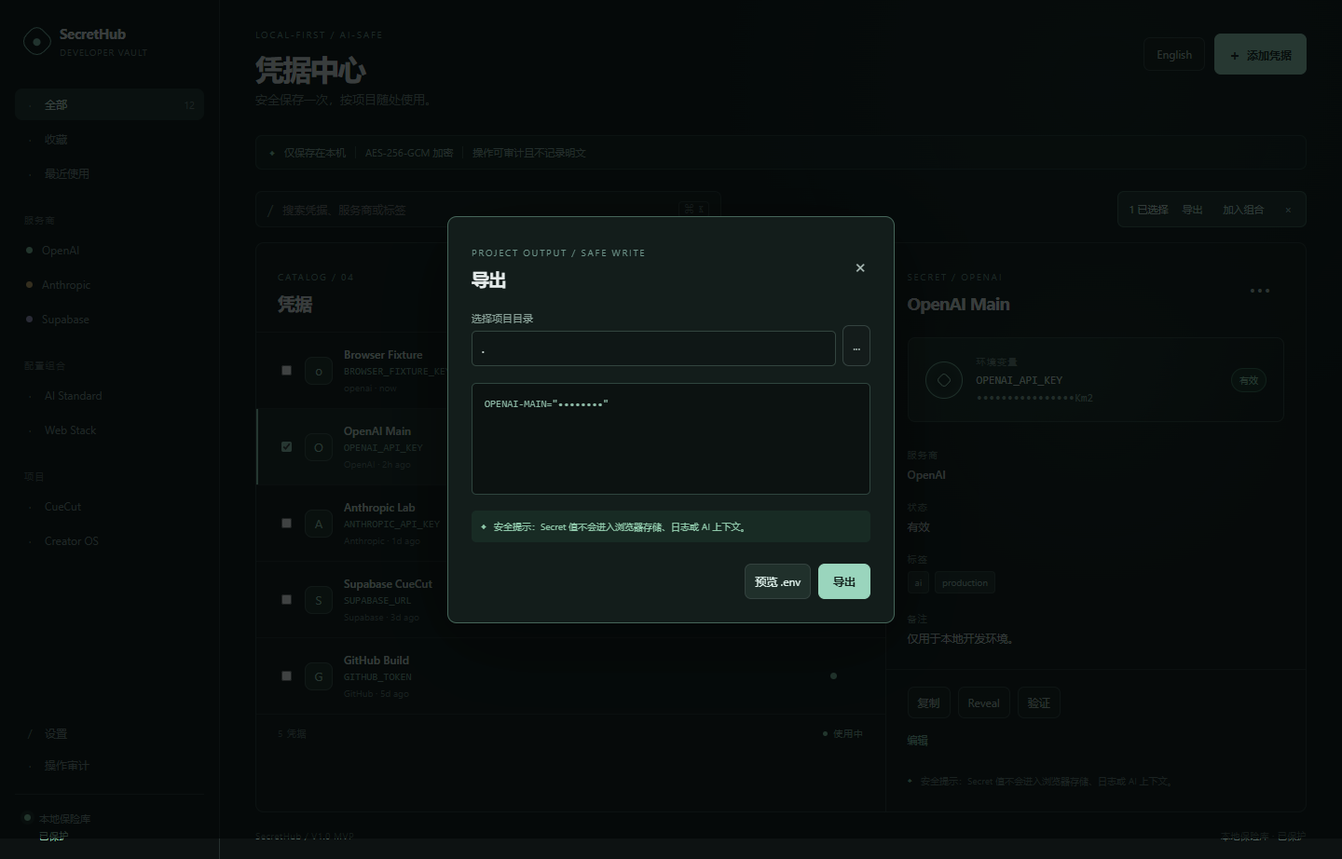
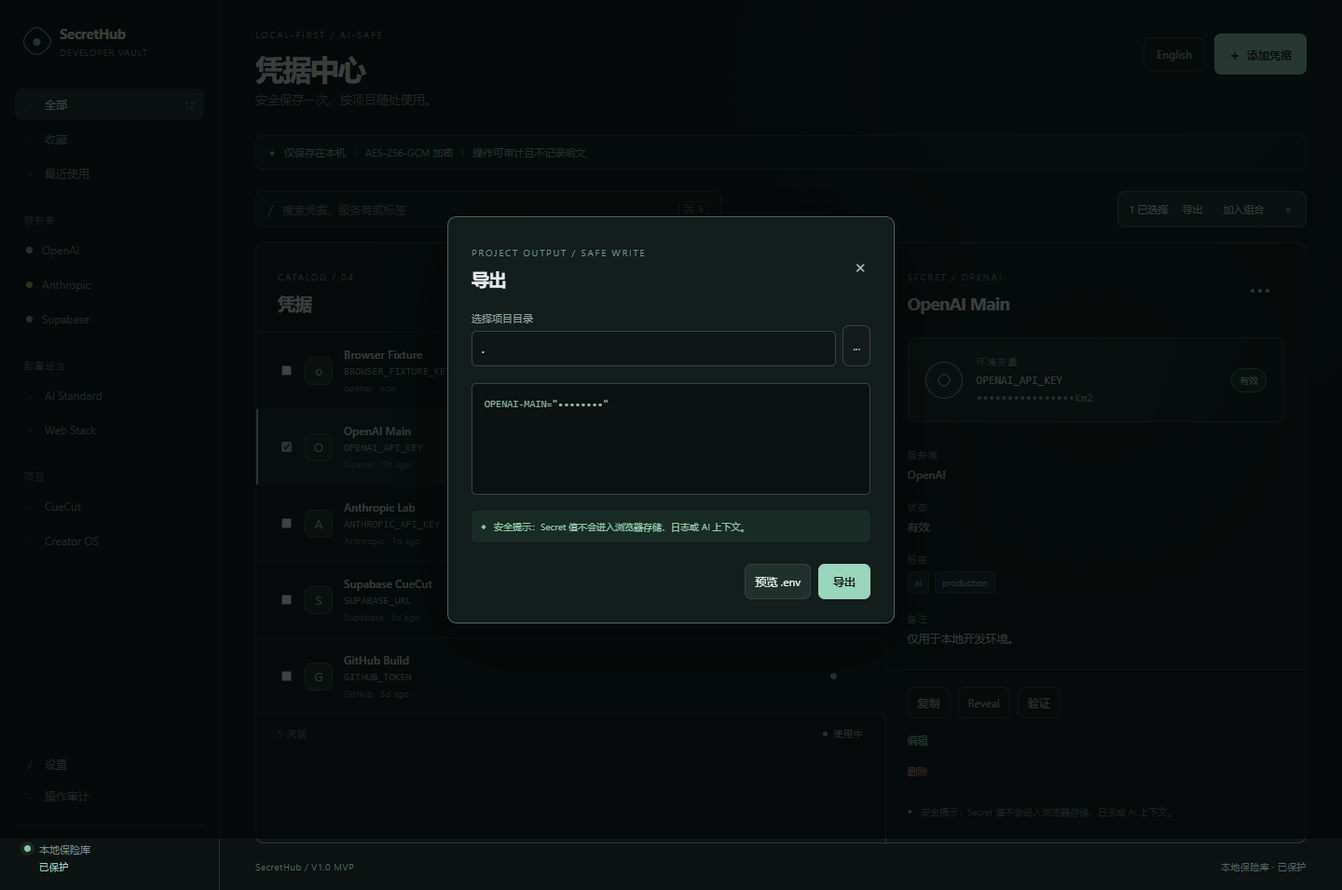
R08-R09: harden provider and lifecycle gates

diff --git a/apps/desktop/src/App.tsx b/apps/desktop/src/App.tsx
@@ -30,6 +30,7 @@ export function App() {
   const [selectedIds, setSelectedIds] = useState<string[]>([]);
   const [showForm, setShowForm] = useState(false);
   const [showExport, setShowExport] = useState(false);
+  const [editingSecret, setEditingSecret] = useState<SecretMetadata | null>(null);
   const [activeNav, setActiveNav] = useState<'all' | 'profiles' | 'projects' | 'settings' | 'audit'>('all');
   const t = getTranslation(locale);
   const selected = secrets.find((secret) => secret.id === selectedId) ?? null;
@@ -56,9 +57,23 @@ export function App() {
   }
 
   async function saveSecret(request: { name: string; provider_id: string; env_key: string; description: string; tags: string[]; value: string }) {
+    if (editingSecret) {
+      if (isTauriRuntime()) await backend.update(editingSecret.id, request);
+      setSecrets((current) => current.map((secret) => secret.id === editingSecret.id ? { ...secret, name: request.name, envKey: request.env_key, provider: request.provider_id, tags: request.tags, updated: 'now' } : secret));
+      setEditingSecret(null);
+      if (isTauriRuntime()) await refreshSecrets();
+      return;
+    }
     if (isTauriRuntime()) { await backend.create(request); await refreshSecrets(); return; }
     const localSecret: SecretMetadata = { id: `local-${Date.now()}`, name: request.name, envKey: request.env_key, provider: request.provider_id, tags: request.tags, status: 'unknown', updated: 'now' };
     setSecrets((current) => [localSecret, ...current]);
+  }
+
+  async function removeSelected() {
+    if (!selected || !window.confirm(t.detail.deleteConfirm)) return;
+    if (isTauriRuntime()) await backend.remove(selected.id);
+    setSecrets((current) => current.filter((secret) => secret.id !== selected.id));
+    setSelectedId('');
   }
 
   return (
@@ -121,7 +136,7 @@ export function App() {
                   <div className="detail-heading"><div><span className="section-kicker">SECRET / {selected.provider.toUpperCase()}</span><h2>{selected.name}</h2></div><button className="more-button" aria-label="More actions">•••</button></div>
                   <div className="secret-visual"><div className="secret-orb"><span /></div><div><span className="field-label">{t.detail.envKey}</span><strong>{selected.envKey}</strong><span className="masked-value">••••••••••••••••Km2</span></div><span className="valid-badge">{selected.status === 'valid' ? t.list.valid : t.list.unknown}</span></div>
                   <div className="detail-fields"><Field label={t.detail.provider} value={selected.provider} /><Field label={t.detail.status} value={selected.status === 'valid' ? t.list.valid : t.list.unknown} /><div><span className="field-label">{t.detail.tags}</span><div className="tag-row">{selected.tags.map((tag) => <span className="tag" key={tag}>{tag}</span>)}</div></div><Field label={t.detail.notes} value={locale === 'zh-CN' ? '仅用于本地开发环境。' : 'For local development only.'} /></div>
-                  <div className="detail-actions"><button className="secondary-button" onClick={() => { if (isTauriRuntime()) void backend.copy(selected.id); }}>{t.detail.copy}</button><button className="secondary-button" onClick={() => { if (isTauriRuntime()) void backend.reveal(selected.id); }}>{t.detail.reveal}</button><button className="secondary-button" onClick={() => undefined}>{t.detail.validate}</button></div><button className="edit-button" onClick={() => setShowForm(true)}>{t.detail.edit}</button>
+                  <div className="detail-actions"><button className="secondary-button" onClick={() => { if (isTauriRuntime()) void backend.copy(selected.id); }}>{t.detail.copy}</button><button className="secondary-button" onClick={() => { if (isTauriRuntime()) void backend.reveal(selected.id); }}>{t.detail.reveal}</button><button className="secondary-button" onClick={() => undefined}>{t.detail.validate}</button></div><button className="edit-button" onClick={() => { setEditingSecret(selected); setShowForm(true); }}>{t.detail.edit}</button><button className="delete-button" onClick={() => void removeSelected()}>{t.detail.delete}</button>
                   <div className="detail-note"><span className="lock-small">◆</span><span>{t.security.warning}</span></div>
                 </> : <div className="empty-detail">{t.detail.noSelection}</div>}
               </section>
@@ -130,7 +145,7 @@ export function App() {
         )}
         <footer className="app-footer"><span>SecretHub / {t.footer.version}</span><span>{t.footer.vault} · {t.footer.synced}</span></footer>
       </main>
-      {showForm && <SecretForm t={t} onClose={() => setShowForm(false)} onSave={saveSecret} />}
+      {showForm && <SecretForm t={t} initial={editingSecret} onClose={() => { setShowForm(false); setEditingSecret(null); }} onSave={saveSecret} />}
       {showExport && <ExportPanel t={t} selectedIds={selectedIds} onClose={() => setShowExport(false)} />}
     </div>
   );
@@ -186,17 +201,17 @@ function AuditPanel({ t }: { t: ReturnType<typeof getTranslation> }) {
 
 function SettingGroup({ title, items }: { title: string; items: string[][] }) { return <div className="setting-group"><h3>{title}</h3>{items.map(([label, value]) => <div className="setting-row" key={label}><span>{label}</span><strong>{value}</strong></div>)}</div>; }
 
-function SecretForm({ t, onClose, onSave }: { t: ReturnType<typeof getTranslation>; onClose: () => void; onSave: (request: { name: string; provider_id: string; env_key: string; description: string; tags: string[]; value: string }) => Promise<void> }) {
-  const [name, setName] = useState(''); const [envKey, setEnvKey] = useState(''); const [provider, setProvider] = useState('OpenAI'); const [value, setValue] = useState(''); const [tags, setTags] = useState(''); const [notes, setNotes] = useState(''); const [error, setError] = useState('');
+function SecretForm({ t, initial, onClose, onSave }: { t: ReturnType<typeof getTranslation>; initial: SecretMetadata | null; onClose: () => void; onSave: (request: { name: string; provider_id: string; env_key: string; description: string; tags: string[]; value: string }) => Promise<void> }) {
+  const [name, setName] = useState(initial?.name ?? ''); const [envKey, setEnvKey] = useState(initial?.envKey ?? ''); const [provider, setProvider] = useState(initial?.provider ?? 'OpenAI'); const [value, setValue] = useState(''); const [tags, setTags] = useState(initial?.tags.join(', ') ?? ''); const [notes, setNotes] = useState(''); const [error, setError] = useState('');
   async function submit(event: FormEvent) { event.preventDefault(); try { await onSave({ name, provider_id: provider.toLowerCase(), env_key: envKey, description: notes, tags: tags.split(',').map((tag) => tag.trim()).filter(Boolean), value }); onClose(); } catch (reason) { setError(String(reason)); } }
-  return <div className="modal-backdrop" role="dialog" aria-modal="true" aria-label={t.form.addTitle}><form className="secret-form" onSubmit={submit}><div className="form-heading"><div><span className="section-kicker">NEW ENTRY / ENCRYPTED</span><h2>{t.form.addTitle}</h2></div><button type="button" className="close-button" onClick={onClose}>×</button></div><label>{t.form.name}<input required value={name} onChange={(event) => setName(event.target.value)} placeholder={t.form.required} /></label><label>{t.form.envKey}<input required value={envKey} onChange={(event) => setEnvKey(event.target.value)} placeholder="OPENAI_API_KEY" /></label><label>{t.form.provider}<select value={provider} onChange={(event) => setProvider(event.target.value)}><option>OpenAI</option><option>Anthropic</option><option>Generic</option></select></label><label>{t.form.value}<input required value={value} onChange={(event) => setValue(event.target.value)} type="password" autoComplete="new-password" /></label><label>{t.form.tags}<input value={tags} onChange={(event) => setTags(event.target.value)} placeholder="ai, production" /></label><label>{t.form.notes}<textarea value={notes} onChange={(event) => setNotes(event.target.value)} rows={3} /></label>{error && <div className="form-error" role="alert">{error}</div>}<div className="form-security"><span>◆</span>{t.security.encrypted}</div><div className="form-actions"><button type="button" className="secondary-button" onClick={onClose}>{t.form.cancel}</button><button className="primary-button" type="submit">{t.form.save}</button></div></form></div>;
+  return <div className="modal-backdrop" role="dialog" aria-modal="true" aria-label={initial ? t.form.editTitle : t.form.addTitle}><form className="secret-form" onSubmit={submit}><div className="form-heading"><div><span className="section-kicker">NEW ENTRY / ENCRYPTED</span><h2>{initial ? t.form.editTitle : t.form.addTitle}</h2></div><button type="button" className="close-button" onClick={onClose}>×</button></div><label>{t.form.name}<input required value={name} onChange={(event) => setName(event.target.value)} placeholder={t.form.required} /></label><label>{t.form.envKey}<input required value={envKey} onChange={(event) => setEnvKey(event.target.value)} placeholder="OPENAI_API_KEY" /></label><label>{t.form.provider}<select value={provider} onChange={(event) => setProvider(event.target.value)}><option>OpenAI</option><option>Anthropic</option><option>Generic</option></select></label><label>{t.form.value}<input required value={value} onChange={(event) => setValue(event.target.value)} type="password" autoComplete="new-password" placeholder={initial ? 'Enter replacement value' : undefined} /></label><label>{t.form.tags}<input value={tags} onChange={(event) => setTags(event.target.value)} placeholder="ai, production" /></label><label>{t.form.notes}<textarea value={notes} onChange={(event) => setNotes(event.target.value)} rows={3} /></label>{error && <div className="form-error" role="alert">{error}</div>}<div className="form-security"><span>◆</span>{t.security.encrypted}</div><div className="form-actions"><button type="button" className="secondary-button" onClick={onClose}>{t.form.cancel}</button><button className="primary-button" type="submit">{t.form.save}</button></div></form></div>;
 }
 
 function ExportPanel({ t, selectedIds, onClose }: { t: ReturnType<typeof getTranslation>; selectedIds: string[]; onClose: () => void }) {
-  const [directory, setDirectory] = useState('.'); const [preview, setPreview] = useState(''); const [message, setMessage] = useState('');
+  const [directory, setDirectory] = useState('.'); const [preview, setPreview] = useState(''); const [message, setMessage] = useState(''); const [conflicts, setConflicts] = useState<string[]>([]);
   const request = { directory, secret_ids: selectedIds, write_example: true, replace_existing: false, ensure_gitignore: true };
   async function chooseFolder() { if (isTauriRuntime()) { const folder = await backend.chooseFolder(); if (folder) setDirectory(folder); } }
-  async function showPreview() { if (isTauriRuntime()) setPreview(await backend.preview(request)); else setPreview(selectedIds.map((id) => `${id.toUpperCase()}="••••••••"`).join('\n')); }
+  async function showPreview() { if (isTauriRuntime()) { setPreview(await backend.preview(request)); setConflicts(await backend.conflicts(request)); } else { setPreview(selectedIds.map((id) => `${id.toUpperCase()}="••••••••"`).join('\n')); setConflicts([]); } }
   async function exportFiles() { if (isTauriRuntime()) await backend.export(request); setMessage('Export complete'); }
-  return <div className="modal-backdrop" role="dialog" aria-modal="true" aria-label={t.actions.export}><div className="secret-form export-form"><div className="form-heading"><div><span className="section-kicker">PROJECT OUTPUT / SAFE WRITE</span><h2>{t.actions.export}</h2></div><button type="button" className="close-button" onClick={onClose}>×</button></div><label>{t.actions.chooseFolder}<div className="folder-row"><input value={directory} onChange={(event) => setDirectory(event.target.value)} /><button type="button" className="secondary-button" onClick={chooseFolder}>...</button></div></label><div className="preview-box">{preview || 'Select Preview to inspect masked output.'}</div><div className="form-security"><span>◆</span>{t.security.warning}</div>{message && <div className="form-success">{message}</div>}<div className="form-actions"><button type="button" className="secondary-button" onClick={showPreview}>{t.actions.preview}</button><button className="primary-button" type="button" onClick={exportFiles}>{t.actions.export}</button></div></div></div>;
+  return <div className="modal-backdrop" role="dialog" aria-modal="true" aria-label={t.actions.export}><div className="secret-form export-form"><div className="form-heading"><div><span className="section-kicker">PROJECT OUTPUT / SAFE WRITE</span><h2>{t.actions.export}</h2></div><button type="button" className="close-button" onClick={onClose}>×</button></div><label>{t.actions.chooseFolder}<div className="folder-row"><input value={directory} onChange={(event) => setDirectory(event.target.value)} /><button type="button" className="secondary-button" onClick={chooseFolder}>...</button></div></label><div className="preview-box">{preview || 'Select Preview to inspect masked output.'}</div>{conflicts.length > 0 && <div className="conflict-box">Conflict keys: {conflicts.join(', ')}</div>}<div className="form-security"><span>◆</span>{t.security.warning}</div>{message && <div className="form-success">{message}</div>}<div className="form-actions"><button type="button" className="secondary-button" onClick={showPreview}>{t.actions.preview}</button><button className="primary-button" type="button" onClick={exportFiles}>{t.actions.export}</button></div></div></div>;
 }

diff --git a/apps/desktop/src/i18n/translations.ts b/apps/desktop/src/i18n/translations.ts
@@ -4,7 +4,7 @@ export type Translation = {
   nav: { all: string; favorites: string; recent: string; providers: string; profiles: string; projects: string; tags: string; settings: string; secrets: string };
   header: { eyebrow: string; title: string; subtitle: string; search: string; add: string; language: string };
   list: { title: string; selected: string; empty: string; searchEmpty: string; provider: string; updated: string; valid: string; unknown: string; active: string };
-  detail: { title: string; masked: string; provider: string; envKey: string; status: string; tags: string; notes: string; copy: string; reveal: string; validate: string; edit: string; delete: string; noSelection: string };
+  detail: { title: string; masked: string; provider: string; envKey: string; status: string; tags: string; notes: string; copy: string; reveal: string; validate: string; edit: string; delete: string; deleteConfirm: string; noSelection: string };
   actions: { export: string; profile: string; validate: string; archive: string; chooseFolder: string; preview: string };
   form: { addTitle: string; editTitle: string; name: string; envKey: string; provider: string; value: string; notes: string; tags: string; cancel: string; save: string; required: string };
   security: { localOnly: string; encrypted: string; audit: string; locked: string; unlock: string; warning: string };
@@ -21,7 +21,7 @@ export const translations: Record<Locale, Translation> = {
     nav: { all: '全部', favorites: '收藏', recent: '最近使用', providers: '服务商', profiles: '配置组合', projects: '项目', tags: '标签', settings: '设置', secrets: '凭据' },
     header: { eyebrow: 'LOCAL-FIRST / AI-SAFE', title: '凭据中心', subtitle: '安全保存一次，按项目随处使用。', search: '搜索凭据、服务商或标签', add: '添加凭据', language: 'English' },
     list: { title: '凭据', selected: '已选择', empty: '还没有凭据', searchEmpty: '没有匹配的凭据', provider: '服务商', updated: '更新于', valid: '有效', unknown: '待验证', active: '使用中' },
-    detail: { title: '凭据详情', masked: '已安全遮罩', provider: '服务商', envKey: '环境变量', status: '状态', tags: '标签', notes: '备注', copy: '复制', reveal: 'Reveal', validate: '验证', edit: '编辑', delete: '删除', noSelection: '选择一条凭据查看详情' },
+    detail: { title: '凭据详情', masked: '已安全遮罩', provider: '服务商', envKey: '环境变量', status: '状态', tags: '标签', notes: '备注', copy: '复制', reveal: 'Reveal', validate: '验证', edit: '编辑', delete: '删除', deleteConfirm: '确定删除这条凭据？', noSelection: '选择一条凭据查看详情' },
     actions: { export: '导出', profile: '加入组合', validate: '批量验证', archive: '归档', chooseFolder: '选择项目目录', preview: '预览 .env' },
     form: { addTitle: '添加凭据', editTitle: '编辑凭据', name: '名称', envKey: '环境变量名', provider: '服务商', value: 'Secret 值', notes: '备注', tags: '标签（逗号分隔）', cancel: '取消', save: '保存凭据', required: '必填' },
     security: { localOnly: '仅保存在本机', encrypted: 'AES-256-GCM 加密', audit: '操作可审计且不记录明文', locked: '保险库已锁定', unlock: '解锁保险库', warning: '安全提示：Secret 值不会进入浏览器存储、日志或 AI 上下文。' },
@@ -36,7 +36,7 @@ export const translations: Record<Locale, Translation> = {
     nav: { all: 'All', favorites: 'Favorites', recent: 'Recent', providers: 'Providers', profiles: 'Profiles', projects: 'Projects', tags: 'Tags', settings: 'Settings', secrets: 'Secrets' },
     header: { eyebrow: 'LOCAL-FIRST / AI-SAFE', title: 'Secret catalog', subtitle: 'Store once. Use everywhere, project by project.', search: 'Search secrets, providers or tags', add: 'Add secret', language: '中文' },
     list: { title: 'Secrets', selected: 'selected', empty: 'No secrets yet', searchEmpty: 'No matching secrets', provider: 'Provider', updated: 'Updated', valid: 'Valid', unknown: 'Not validated', active: 'Active' },
-    detail: { title: 'Secret details', masked: 'Safely masked', provider: 'Provider', envKey: 'Environment key', status: 'Status', tags: 'Tags', notes: 'Notes', copy: 'Copy', reveal: 'Reveal', validate: 'Validate', edit: 'Edit', delete: 'Delete', noSelection: 'Select a secret to view details' },
+    detail: { title: 'Secret details', masked: 'Safely masked', provider: 'Provider', envKey: 'Environment key', status: 'Status', tags: 'Tags', notes: 'Notes', copy: 'Copy', reveal: 'Reveal', validate: 'Validate', edit: 'Edit', delete: 'Delete', deleteConfirm: 'Delete this secret?', noSelection: 'Select a secret to view details' },
     actions: { export: 'Export', profile: 'Add to profile', validate: 'Validate selected', archive: 'Archive', chooseFolder: 'Choose project folder', preview: 'Preview .env' },
     form: { addTitle: 'Add secret', editTitle: 'Edit secret', name: 'Name', envKey: 'Environment key', provider: 'Provider', value: 'Secret value', notes: 'Notes', tags: 'Tags (comma separated)', cancel: 'Cancel', save: 'Save secret', required: 'Required' },
     security: { localOnly: 'Stored on this device', encrypted: 'AES-256-GCM encrypted', audit: 'Audited without plaintext', locked: 'Vault is locked', unlock: 'Unlock vault', warning: 'Security note: secret values never enter browser storage, logs or AI context.' },

diff --git a/apps/desktop/src/styles.css b/apps/desktop/src/styles.css
@@ -19,5 +19,7 @@ button { cursor: pointer; }
 .runtime-error { max-width: 1250px; margin: 0 auto 16px; padding: 10px 13px; border: 1px solid #77494a; border-radius: 7px; background: #351f22; color: #e3a8a6; font-size: 11px; }.vault-gate { max-width: 520px; min-height: 490px; margin: 40px auto 0; border: 1px solid #36574b; border-radius: 10px; background: radial-gradient(circle at 50% 20%, rgba(67, 132, 105, .17), transparent 42%), #121c1a; padding: 46px 58px; text-align: center; }.vault-gate h2 { font-size: 24px; letter-spacing: -.04em; margin: 14px 0 7px; }.vault-gate p { color: #788d85; font-size: 12px; line-height: 1.65; margin: 0 auto 26px; max-width: 330px; }.gate-orb { width: 58px; height: 58px; border-radius: 50%; border: 1px solid #8ecbb0; display: grid; place-items: center; margin: 0 auto 23px; box-shadow: 0 0 0 9px rgba(142, 203, 176, .06); }.gate-orb span { width: 17px; height: 17px; border: 1px solid #a6dfc3; border-radius: 5px; transform: rotate(45deg); }.vault-gate form { text-align: left; margin-top: 18px; }.vault-gate label { display: block; color: #89a198; font-size: 11px; margin-top: 14px; }.vault-gate input { display: block; width: 100%; border: 1px solid #33453f; background: #0f1716; color: #d9e7e1; padding: 12px; border-radius: 5px; outline: none; margin-top: 6px; font-size: 13px; }.vault-gate input:focus { border-color: #84bfa7; outline: 2px solid rgba(132, 191, 167, .18); }.vault-gate .primary-button { width: 100%; margin-top: 21px; }.form-error { margin-top: 12px; color: #e3a8a6; font-size: 11px; }
 .folder-row { display: flex; gap: 7px; }.folder-row input { flex: 1 !important; }.preview-box { margin-top: 18px; min-height: 120px; padding: 13px; border: 1px solid #2f453e; border-radius: 5px; background: #0c1211; color: #8cb8a5; white-space: pre-wrap; font: 11px/1.7 ui-monospace, SFMono-Regular, Consolas, monospace; }.form-success { margin-top: 12px; color: #9bd4b4; font-size: 11px; }
 .profile-editor { display: flex; align-items: end; gap: 10px; margin-top: 28px; }.profile-editor label { flex: 1; color: #89a198; font-size: 11px; }.profile-editor input { display: block; width: 100%; border: 1px solid #33453f; background: #0f1716; color: #d9e7e1; padding: 10px; border-radius: 5px; margin-top: 6px; font-size: 12px; }.profile-list, .project-list, .audit-list { margin-top: 25px; border-top: 1px solid #2a3834; }.profile-row, .project-row, .audit-row { display: flex; justify-content: space-between; gap: 20px; align-items: center; padding: 15px 0; border-bottom: 1px solid #26332f; }.profile-row strong, .project-row strong, .audit-row strong { display: block; color: #cce0d9; font-size: 12px; }.profile-row span, .project-row span, .audit-row span { display: block; color: #71847d; font-size: 10px; margin-top: 5px; }.project-message { margin-bottom: 15px; }
+.delete-button { display: block; margin: 12px 23px 0; border: 0; background: transparent; color: #ca8f8f; font-size: 11px; padding: 3px 0; }.delete-button:hover { color: #e2aaaa; }
+.conflict-box { margin-top: 12px; padding: 10px; border: 1px solid #775c45; background: #33291d; color: #d8b27c; font-size: 10px; line-height: 1.5; }
 @media (max-width: 1100px) { .app-shell { grid-template-columns: 205px minmax(0, 1fr); }.main-panel { padding-left: 24px; padding-right: 24px; }.workspace-grid { grid-template-columns: minmax(400px, 1.1fr) minmax(320px, .9fr); } }
 @media (prefers-reduced-motion: reduce) { *, *:before, *:after { transition-duration: .01ms !important; animation-duration: .01ms !important; } }

diff --git a/apps/desktop/src/lib/backend.ts b/apps/desktop/src/lib/backend.ts
@@ -12,10 +12,13 @@ export const backend = {
   lock: () => invoke<void>('lock'),
   list: (query?: string) => invoke<BackendSecret[]>('secret_list', { query }),
   create: (request: { name: string; provider_id: string; env_key: string; description: string; tags: string[]; value: string }) => invoke<string>('secret_create', { request }),
+  update: (id: string, request: { name: string; provider_id: string; env_key: string; description: string; tags: string[]; value: string }) => invoke<void>('secret_update', { id, request }),
+  remove: (id: string) => invoke<boolean>('secret_delete', { id }),
   copy: (id: string) => invoke<void>('secret_copy', { id }),
   reveal: (id: string) => invoke<void>('secret_reveal', { id }),
   preview: (request: { directory: string; secret_ids: string[]; write_example: boolean; replace_existing: boolean; ensure_gitignore: boolean }) => invoke<string>('export_preview', { request }),
   export: (request: { directory: string; secret_ids: string[]; write_example: boolean; replace_existing: boolean; ensure_gitignore: boolean }) => invoke<void>('export_env', { request }),
+  conflicts: (request: { directory: string; secret_ids: string[]; write_example: boolean; replace_existing: boolean; ensure_gitignore: boolean }) => invoke<string[]>('export_conflicts', { request }),
   chooseFolder: () => invoke<string | null>('choose_project_directory'),
   profiles: () => invoke<Array<{ id: string; name: string; description: string; secret_ids: string[] }>>('profile_list'),
   saveProfile: (profile: { id: string; name: string; description: string; secret_ids: string[] }) => invoke<void>('profile_save', { request: profile }),

diff --git a/apps/desktop/src-tauri/src/commands.rs b/apps/desktop/src-tauri/src/commands.rs
@@ -1,7 +1,7 @@
 use super::AppState;
 use arboard::Clipboard;
 use secrethub_core::{NewSecretInput, VaultService};
-use secrethub_exporter::{ensure_gitignore_env, env_is_tracked, gitignore_has_env, render_env, render_example, validate_export_directory, write_atomic, EnvEntry};
+use secrethub_exporter::{detect_conflicts, ensure_gitignore_env, env_is_tracked, gitignore_has_env, render_env, render_example, validate_export_directory, write_atomic, EnvEntry};
 use serde::{Deserialize, Serialize};
 use std::{path::Path, sync::MutexGuard};
 use tauri::State;
@@ -20,47 +20,59 @@ pub struct ProfileRequest { pub id: String, pub name: String, pub description: S
 
 fn vault_from_state<'a>(state: &'a State<'_, AppState>) -> Result<MutexGuard<'a, Option<VaultService>>, String> { state.vault.lock().map_err(|_| "vault state is unavailable".to_owned()) }
 
+fn touch_activity(state: &State<'_, AppState>) -> Result<(), String> {
+    let now = super::now_seconds();
+    let expired = state.policy.lock().map_err(|_| "vault policy is unavailable".to_owned())?.is_expired(now);
+    if expired { if let Some(vault) = vault_from_state(state)?.as_mut() { vault.lock(); } return Err("vault auto-locked after inactivity".to_owned()); }
+    state.policy.lock().map_err(|_| "vault policy is unavailable".to_owned())?.record_activity(now);
+    Ok(())
+}
+
 #[tauri::command]
 pub fn vault_status(state: State<'_, AppState>) -> Result<VaultStatus, String> {
+    let _ = touch_activity(&state);
     let vault = vault_from_state(&state)?;
     let Some(vault) = vault.as_ref() else { return Ok(VaultStatus { initialized: false, unlocked: false }); };
     Ok(VaultStatus { initialized: vault.is_initialized().map_err(|error| error.to_string())?, unlocked: vault.is_unlocked() })
 }
 
 #[tauri::command]
-pub fn setup_master(password: String, state: State<'_, AppState>) -> Result<(), String> { vault_from_state(&state)?.as_mut().ok_or_else(|| "vault unavailable".to_owned())?.setup_master(&password).map_err(|error| error.to_string()) }
+pub fn setup_master(password: String, state: State<'_, AppState>) -> Result<(), String> { vault_from_state(&state)?.as_mut().ok_or_else(|| "vault unavailable".to_owned())?.setup_master(&password).map_err(|error| error.to_string())?; state.policy.lock().map_err(|_| "vault policy is unavailable".to_owned())?.record_activity(super::now_seconds()); Ok(()) }
 
 #[tauri::command]
-pub fn unlock(password: String, state: State<'_, AppState>) -> Result<(), String> { vault_from_state(&state)?.as_mut().ok_or_else(|| "vault unavailable".to_owned())?.unlock(&password).map_err(|error| error.to_string()) }
+pub fn unlock(password: String, state: State<'_, AppState>) -> Result<(), String> { vault_from_state(&state)?.as_mut().ok_or_else(|| "vault unavailable".to_owned())?.unlock(&password).map_err(|error| error.to_string())?; state.policy.lock().map_err(|_| "vault policy is unavailable".to_owned())?.record_activity(super::now_seconds()); Ok(()) }
 
 #[tauri::command]
 pub fn lock(state: State<'_, AppState>) -> Result<(), String> { if let Some(vault) = vault_from_state(&state)?.as_mut() { vault.lock(); } Ok(()) }
 
 #[tauri::command]
-pub fn secret_list(query: Option<String>, state: State<'_, AppState>) -> Result<Vec<secrethub_storage::SecretMetadata>, String> { let vault = vault_from_state(&state)?; let vault = vault.as_ref().ok_or_else(|| "vault unavailable".to_owned())?; query.filter(|value| !value.is_empty()).map_or_else(|| vault.list_metadata(), |value| vault.search_metadata(&value)).map_err(|error| error.to_string()) }
+pub fn secret_list(query: Option<String>, state: State<'_, AppState>) -> Result<Vec<secrethub_storage::SecretMetadata>, String> { touch_activity(&state)?; let vault = vault_from_state(&state)?; let vault = vault.as_ref().ok_or_else(|| "vault unavailable".to_owned())?; query.filter(|value| !value.is_empty()).map_or_else(|| vault.list_metadata(), |value| vault.search_metadata(&value)).map_err(|error| error.to_string()) }
 
 #[tauri::command]
-pub fn secret_create(request: SecretCreateRequest, state: State<'_, AppState>) -> Result<String, String> { vault_from_state(&state)?.as_ref().ok_or_else(|| "vault unavailable".to_owned())?.create_secret(NewSecretInput { name: request.name, provider_id: request.provider_id, env_key: request.env_key, description: request.description, tags: request.tags, value: request.value }).map_err(|error| error.to_string()) }
+pub fn secret_create(request: SecretCreateRequest, state: State<'_, AppState>) -> Result<String, String> { touch_activity(&state)?; vault_from_state(&state)?.as_ref().ok_or_else(|| "vault unavailable".to_owned())?.create_secret(NewSecretInput { name: request.name, provider_id: request.provider_id, env_key: request.env_key, description: request.description, tags: request.tags, value: request.value }).map_err(|error| error.to_string()) }
 
 #[tauri::command]
-pub fn secret_update(id: String, request: SecretCreateRequest, state: State<'_, AppState>) -> Result<(), String> { vault_from_state(&state)?.as_ref().ok_or_else(|| "vault unavailable".to_owned())?.update_secret(&id, NewSecretInput { name: request.name, provider_id: request.provider_id, env_key: request.env_key, description: request.description, tags: request.tags, value: request.value }).map_err(|error| error.to_string()) }
+pub fn secret_update(id: String, request: SecretCreateRequest, state: State<'_, AppState>) -> Result<(), String> { touch_activity(&state)?; vault_from_state(&state)?.as_ref().ok_or_else(|| "vault unavailable".to_owned())?.update_secret(&id, NewSecretInput { name: request.name, provider_id: request.provider_id, env_key: request.env_key, description: request.description, tags: request.tags, value: request.value }).map_err(|error| error.to_string()) }
 
 #[tauri::command]
-pub fn secret_delete(id: String, state: State<'_, AppState>) -> Result<bool, String> { vault_from_state(&state)?.as_ref().ok_or_else(|| "vault unavailable".to_owned())?.delete_secret(&id).map_err(|error| error.to_string()) }
+pub fn secret_delete(id: String, state: State<'_, AppState>) -> Result<bool, String> { touch_activity(&state)?; vault_from_state(&state)?.as_ref().ok_or_else(|| "vault unavailable".to_owned())?.delete_secret(&id).map_err(|error| error.to_string()) }
 
 #[tauri::command]
-pub fn secret_copy(id: String, state: State<'_, AppState>) -> Result<(), String> { let value = vault_from_state(&state)?.as_ref().ok_or_else(|| "vault unavailable".to_owned())?.read_secret(&id).map_err(|error| error.to_string())?; let mut clipboard = Clipboard::new().map_err(|error| error.to_string())?; clipboard.set_text(value).map_err(|error| error.to_string()) }
+pub fn secret_copy(id: String, state: State<'_, AppState>) -> Result<(), String> { touch_activity(&state)?; let value = vault_from_state(&state)?.as_ref().ok_or_else(|| "vault unavailable".to_owned())?.read_secret(&id).map_err(|error| error.to_string())?; let mut clipboard = Clipboard::new().map_err(|error| error.to_string())?; clipboard.set_text(value).map_err(|error| error.to_string()) }
 
 #[tauri::command]
-pub fn secret_reveal(id: String, state: State<'_, AppState>) -> Result<(), String> { let value = vault_from_state(&state)?.as_ref().ok_or_else(|| "vault unavailable".to_owned())?.read_secret(&id).map_err(|error| error.to_string())?; rfd::MessageDialog::new().set_title("SecretHub").set_description(&value).set_buttons(rfd::MessageButtons::Ok).show(); Ok(()) }
+pub fn secret_reveal(id: String, state: State<'_, AppState>) -> Result<(), String> { touch_activity(&state)?; let value = vault_from_state(&state)?.as_ref().ok_or_else(|| "vault unavailable".to_owned())?.read_secret(&id).map_err(|error| error.to_string())?; rfd::MessageDialog::new().set_title("SecretHub").set_description(&value).set_buttons(rfd::MessageButtons::Ok).show(); Ok(()) }
 
 fn selected_entries(vault: &VaultService, ids: &[String]) -> Result<Vec<EnvEntry>, String> { let metadata = vault.list_metadata().map_err(|error| error.to_string())?; ids.iter().map(|id| { let item = metadata.iter().find(|item| item.id == *id).ok_or_else(|| "secret not found".to_owned())?; let value = vault.read_secret(id).map_err(|error| error.to_string())?; Ok(EnvEntry::new(&item.env_key, value)) }).collect() }
 
 #[tauri::command]
-pub fn export_preview(request: ExportRequest, state: State<'_, AppState>) -> Result<String, String> { let vault = vault_from_state(&state)?; let vault = vault.as_ref().ok_or_else(|| "vault unavailable".to_owned())?; let entries = selected_entries(vault, &request.secret_ids)?; let masked = entries.iter().map(|entry| EnvEntry::new(&entry.key, "••••••••")).collect::<Vec<_>>(); render_env(&masked).map_err(|error| error.to_string()) }
+pub fn export_preview(request: ExportRequest, state: State<'_, AppState>) -> Result<String, String> { touch_activity(&state)?; let vault = vault_from_state(&state)?; let vault = vault.as_ref().ok_or_else(|| "vault unavailable".to_owned())?; let entries = selected_entries(vault, &request.secret_ids)?; let masked = entries.iter().map(|entry| EnvEntry::new(&entry.key, "••••••••")).collect::<Vec<_>>(); render_env(&masked).map_err(|error| error.to_string()) }
 
 #[tauri::command]
-pub fn export_env(request: ExportRequest, state: State<'_, AppState>) -> Result<(), String> { let vault = vault_from_state(&state)?; let vault = vault.as_ref().ok_or_else(|| "vault unavailable".to_owned())?; let directory = validate_export_directory(Path::new(&request.directory)).map_err(|error| error.to_string())?; if env_is_tracked(&directory).map_err(|error| error.to_string())? { return Err(".env is already tracked by Git; remediation required before export".to_owned()); } let gitignore = directory.join(".gitignore"); if !gitignore_has_env(&gitignore).map_err(|error| error.to_string())? { if request.ensure_gitignore { ensure_gitignore_env(&gitignore).map_err(|error| error.to_string())?; } else { return Err(".env is not protected by .gitignore; explicit remediation required".to_owned()); } } let entries = selected_entries(vault, &request.secret_ids)?; let content = render_env(&entries).map_err(|error| error.to_string())?; write_atomic(&directory.join(".env"), &content, request.replace_existing).map_err(|error| error.to_string())?; if request.write_example { let example = render_example(&entries).map_err(|error| error.to_string())?; write_atomic(&directory.join(".env.example"), &example, request.replace_existing).map_err(|error| error.to_string())?; } Ok(()) }
+pub fn export_conflicts(request: ExportRequest, state: State<'_, AppState>) -> Result<Vec<String>, String> { touch_activity(&state)?; let vault = vault_from_state(&state)?; let vault = vault.as_ref().ok_or_else(|| "vault unavailable".to_owned())?; let directory = validate_export_directory(Path::new(&request.directory)).map_err(|error| error.to_string())?; let existing = std::fs::read_to_string(directory.join(".env")).unwrap_or_default(); let entries = selected_entries(vault, &request.secret_ids)?; detect_conflicts(&existing, &entries).map_err(|error| error.to_string()) }
+
+#[tauri::command]
+pub fn export_env(request: ExportRequest, state: State<'_, AppState>) -> Result<(), String> { touch_activity(&state)?; let vault = vault_from_state(&state)?; let vault = vault.as_ref().ok_or_else(|| "vault unavailable".to_owned())?; let directory = validate_export_directory(Path::new(&request.directory)).map_err(|error| error.to_string())?; if env_is_tracked(&directory).map_err(|error| error.to_string())? { return Err(".env is already tracked by Git; remediation required before export".to_owned()); } let gitignore = directory.join(".gitignore"); if !gitignore_has_env(&gitignore).map_err(|error| error.to_string())? { if request.ensure_gitignore { ensure_gitignore_env(&gitignore).map_err(|error| error.to_string())?; } else { return Err(".env is not protected by .gitignore; explicit remediation required".to_owned()); } } let entries = selected_entries(vault, &request.secret_ids)?; let content = render_env(&entries).map_err(|error| error.to_string())?; write_atomic(&directory.join(".env"), &content, request.replace_existing).map_err(|error| error.to_string())?; if request.write_example { let example = render_example(&entries).map_err(|error| error.to_string())?; write_atomic(&directory.join(".env.example"), &example, request.replace_existing).map_err(|error| error.to_string())?; } Ok(()) }
 
 #[tauri::command]
 pub fn choose_project_directory() -> Option<String> { rfd::FileDialog::new().pick_folder().map(|path| path.to_string_lossy().into_owned()) }
@@ -84,7 +96,7 @@ pub fn audit_list(state: State<'_, AppState>) -> Result<Vec<secrethub_storage::A
 pub fn settings_get(state: State<'_, AppState>) -> Result<secrethub_storage::Settings, String> { vault_from_state(&state)?.as_ref().ok_or_else(|| "vault unavailable".to_owned())?.get_settings().map_err(|error| error.to_string()) }
 
 #[tauri::command]
-pub fn settings_update(settings: secrethub_storage::Settings, state: State<'_, AppState>) -> Result<(), String> { vault_from_state(&state)?.as_ref().ok_or_else(|| "vault unavailable".to_owned())?.update_settings(settings).map_err(|error| error.to_string()) }
+pub fn settings_update(settings: secrethub_storage::Settings, state: State<'_, AppState>) -> Result<(), String> { vault_from_state(&state)?.as_ref().ok_or_else(|| "vault unavailable".to_owned())?.update_settings(settings.clone()).map_err(|error| error.to_string())?; *state.policy.lock().map_err(|_| "vault policy is unavailable".to_owned())? = secrethub_core::AutoLockPolicy::new(settings.auto_lock_minutes as u64 * 60, super::now_seconds()); Ok(()) }
 
 #[tauri::command]
 pub fn backup_export(path: String, state: State<'_, AppState>) -> Result<(), String> { let bytes = vault_from_state(&state)?.as_ref().ok_or_else(|| "vault unavailable".to_owned())?.encrypted_backup().map_err(|error| error.to_string())?; let target = Path::new(&path); if target.extension().and_then(|value| value.to_str()) != Some("secrethub-backup") { return Err("backup must use .secrethub-backup extension".to_owned()); } std::fs::write(target, bytes).map_err(|error| error.to_string()) }

diff --git a/crates/providers/src/lib.rs b/crates/providers/src/lib.rs
@@ -1,6 +1,8 @@
 //! Deterministic provider registry and local format detection.
 
 use serde::{Deserialize, Serialize};
+use std::net::IpAddr;
+use url::Url;
 
 #[derive(Debug, Clone, Serialize, Deserialize, PartialEq, Eq)]
 pub struct ProviderDefinition { pub id: String, pub name: String, pub env_keys: Vec<String>, pub prefixes: Vec<String> }
@@ -22,6 +24,20 @@ pub fn default_registry() -> Vec<ProviderDefinition> {
 
 pub fn detect_provider(value: &str, registry: &[ProviderDefinition]) -> Option<ProviderDefinition> {
     registry.iter().filter_map(|provider| provider.prefixes.iter().filter(|prefix| value.starts_with(prefix.as_str())).max_by_key(|prefix| prefix.len()).map(|prefix| (prefix.len(), provider))).max_by_key(|(length, _)| *length).map(|(_, provider)| provider.clone())
+}
+
+pub fn validate_endpoint(provider_id: &str, endpoint: &str, _registry: &[ProviderDefinition]) -> Result<Url, String> {
+    let url = Url::parse(endpoint).map_err(|_| "invalid endpoint URL".to_owned())?;
+    if url.scheme() != "https" { return Err("provider validation requires HTTPS".to_owned()); }
+    let host = url.host_str().ok_or_else(|| "endpoint host is required".to_owned())?;
+    let expected = match provider_id { "openai" => "api.openai.com", "anthropic" => "api.anthropic.com", "gemini" => "generativelanguage.googleapis.com", "deepseek" => "api.deepseek.com", "xai" => "api.x.ai", "openrouter" => "openrouter.ai", "github" => "api.github.com", "supabase" => "api.supabase.com", "cloudflare" => "api.cloudflare.com", _ => return Err("provider has no network validator".to_owned()) };
+    if host != expected || url.port().is_some() { return Err("endpoint is outside the fixed provider origin".to_owned()); }
+    if host.parse::<IpAddr>().map(is_private_ip).unwrap_or(false) { return Err("private network endpoints are not allowed".to_owned()); }
+    Ok(url)
+}
+
+fn is_private_ip(ip: IpAddr) -> bool {
+    match ip { IpAddr::V4(value) => value.is_private() || value.is_loopback() || value.is_link_local() || value.is_unspecified(), IpAddr::V6(value) => value.is_loopback() || value.is_unique_local() || value.is_unicast_link_local() || value.is_unspecified() }
 }
 
 fn provider(id: &str, name: &str, env_keys: &[&str], prefixes: &[&str]) -> ProviderDefinition { ProviderDefinition { id: id.into(), name: name.into(), env_keys: env_keys.iter().map(|value| (*value).into()).collect(), prefixes: prefixes.iter().map(|value| (*value).into()).collect() } }

diff --git a/apps/desktop/src-tauri/src/lib.rs b/apps/desktop/src-tauri/src/lib.rs
@@ -1,11 +1,11 @@
-use secrethub_core::VaultService;
+use secrethub_core::{AutoLockPolicy, VaultService};
 use secrethub_storage::Database;
 use std::{fs, path::PathBuf, sync::Mutex};
 use tauri::{AppHandle, Manager};
 
 mod commands;
 
-pub struct AppState { pub vault: Mutex<Option<VaultService>> }
+pub struct AppState { pub vault: Mutex<Option<VaultService>>, pub policy: Mutex<AutoLockPolicy> }
 
 fn database_path(app: &AppHandle) -> Result<PathBuf, String> {
     let data_dir = app.path().app_data_dir().map_err(|error| error.to_string())?;
@@ -19,7 +19,8 @@ pub fn run() {
             let path = database_path(app.handle()).map_err(|error| Box::<dyn std::error::Error>::from(error))?;
             let database = Database::open(path).map_err(|error| Box::<dyn std::error::Error>::from(error.to_string()))?;
             let vault = VaultService::open(database).map_err(|error| Box::<dyn std::error::Error>::from(error.to_string()))?;
-            app.manage(AppState { vault: Mutex::new(Some(vault)) });
+            let settings = vault.get_settings().map_err(|error| Box::<dyn std::error::Error>::from(error.to_string()))?;
+            app.manage(AppState { vault: Mutex::new(Some(vault)), policy: Mutex::new(AutoLockPolicy::new(settings.auto_lock_minutes as u64 * 60, now_seconds())) });
             Ok(())
         })
         .invoke_handler(tauri::generate_handler![
@@ -34,6 +35,7 @@ pub fn run() {
             commands::secret_copy,
             commands::secret_reveal,
             commands::export_preview,
+            commands::export_conflicts,
             commands::export_env,
             commands::choose_project_directory,
             commands::profile_list,
@@ -48,3 +50,5 @@ pub fn run() {
         .run(tauri::generate_context!())
         .expect("error while running SecretHub");
 }
+
+fn now_seconds() -> u64 { std::time::SystemTime::now().duration_since(std::time::UNIX_EPOCH).unwrap_or_default().as_secs() }

diff --git a/crates/providers/tests/detection.rs b/crates/providers/tests/detection.rs
@@ -1,4 +1,4 @@
-use secrethub_providers::{default_registry, detect_provider};
+use secrethub_providers::{default_registry, detect_provider, validate_endpoint};
 
 #[test]
 fn detects_high_frequency_providers_locally_without_network_probing() {
@@ -8,4 +8,12 @@ fn detects_high_frequency_providers_locally_without_network_probing() {
     assert_eq!(detect_provider("sk-ant-fixture", &registry).unwrap().id, "anthropic");
     assert_eq!(detect_provider("AIzaFixture", &registry).unwrap().id, "gemini");
     assert_eq!(detect_provider("unknown-value", &registry), None);
+}
+
+#[test]
+fn validators_allow_only_fixed_https_origins_and_reject_ssrf_targets() {
+    assert!(validate_endpoint("openai", "https://api.openai.com/v1/models", &default_registry()).is_ok());
+    assert!(validate_endpoint("openai", "http://api.openai.com/v1/models", &default_registry()).is_err());
+    assert!(validate_endpoint("openai", "https://127.0.0.1/v1/models", &default_registry()).is_err());
+    assert!(validate_endpoint("openai", "https://attacker.example/v1/models", &default_registry()).is_err());
 }

diff --git a/docs/governance/RISK_REGISTER.md b/docs/governance/RISK_REGISTER.md
@@ -2,9 +2,10 @@
 
 | ID | Risk | Level | Mitigation / evidence | State |
 |---|---|---:|---|---|
-| RSK-001 | Rust toolchain missing at intake | High | Install official toolchain; verify `cargo test` and Tauri build | Open |
-| RSK-002 | WebView can expose plaintext if IPC returns it | Critical | Native-only Reveal/Copy; metadata-only command contract | Open |
+| RSK-001 | Rust toolchain missing at intake | High | Official Rustup installed; `cargo test` and Tauri build verified | Resolved |
+| RSK-002 | WebView can expose plaintext if IPC returns it | Critical | Native-only Reveal/Copy; metadata-only command contract | Mitigated; native manual check pending |
 | RSK-003 | V1 scope spans desktop, crypto and filesystem | High | Dependency-ordered work items and vertical slice gate | Active |
-| RSK-004 | `.env` accidentally tracked by Git | Critical | Fail-closed preflight and integration test | Open |
+| RSK-004 | `.env` accidentally tracked by Git | Critical | Fail-closed preflight and integration test | Mitigated |
 | RSK-005 | Real provider validation needs private credentials | Medium | Synthetic readiness first; user-local only when required | Deferred |
 | RSK-006 | UI prototype drifts from implementation | Medium | Actual desktop UI is the interactive prototype source | Active |
+| RSK-007 | Native UI manual acceptance unavailable in current session | Medium | Process launch verified; retain manual acceptance gate for install/unlock/reveal/export | Waiting user |

diff --git a/docs/evidence/R02-R09.md b/docs/evidence/R02-R09.md
@@ -5,5 +5,10 @@
 - `npm run typecheck && npm test && npm run build`: exit 0; 2 Vitest files / 2 tests pass and Vite bundle is produced.
 - `npx tauri build --debug`: exit 0; MSI and NSIS bundles are produced under `target/debug/bundle`.
 - Playwright wrapper E2E: exit 0; default Chinese, English switch, form add, multi-select and masked export preview pass; screenshots are in this directory.
+- `powershell -ExecutionPolicy Bypass -File tests/security/security_scan.ps1`: exit 0; source/test scan has no sensitive sentinel/private-key marker and Git tracks no `.env`/backup export.
+- Provider SSRF tests: exit 0; only fixed HTTPS provider origins are accepted.
+- Auto-lock policy tests: exit 0; Tauri command activity checks enforce idle expiry and settings update replaces the policy.
+- Native process launch smoke: exit 0; `target/debug/secrethub-desktop.exe` stayed alive for 3 seconds and was then closed by the test harness.
+- Final `npx tauri build --debug`: exit 0; x64 MSI and NSIS installers regenerated after the latest CRUD, conflict and auto-lock changes.
 
 Automated evidence uses synthetic fixtures only. Installer launch, first-run Windows interaction and real-directory export remain manual acceptance gates.

diff --git a/docs/governance/PROJECT_DISCOVERY.md b/docs/governance/PROJECT_DISCOVERY.md
@@ -4,7 +4,7 @@
 
 - Project root: `F:\CCPJ\SecretHub`
 - Initial state: PRD only; no Git repository, source code, tests, package metadata or UI prototype.
-- Host tools at intake: Node.js 24.11.0, npm 11.6.1, Git 2.53.0; Rust/Cargo unavailable at intake.
+- Host tools: Node.js 24.11.0, npm 11.6.1, Git 2.53.0, Rust/Cargo 1.98.1 installed during bootstrap.
 - Target: Windows 11 first, macOS later.
 
 ## Execution mode
